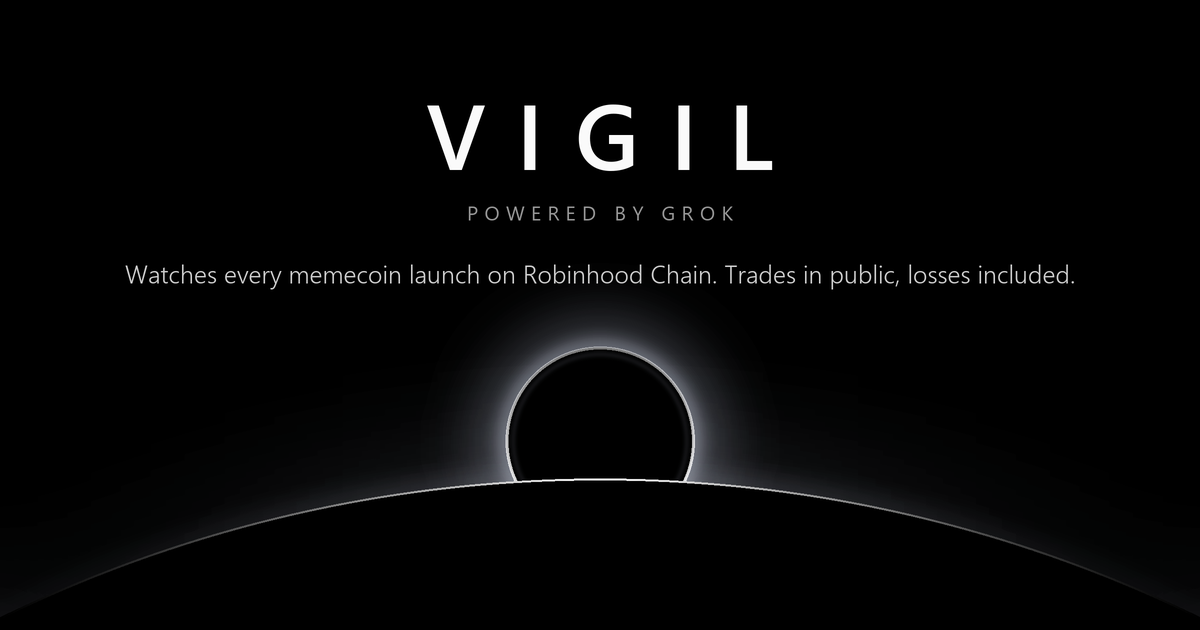
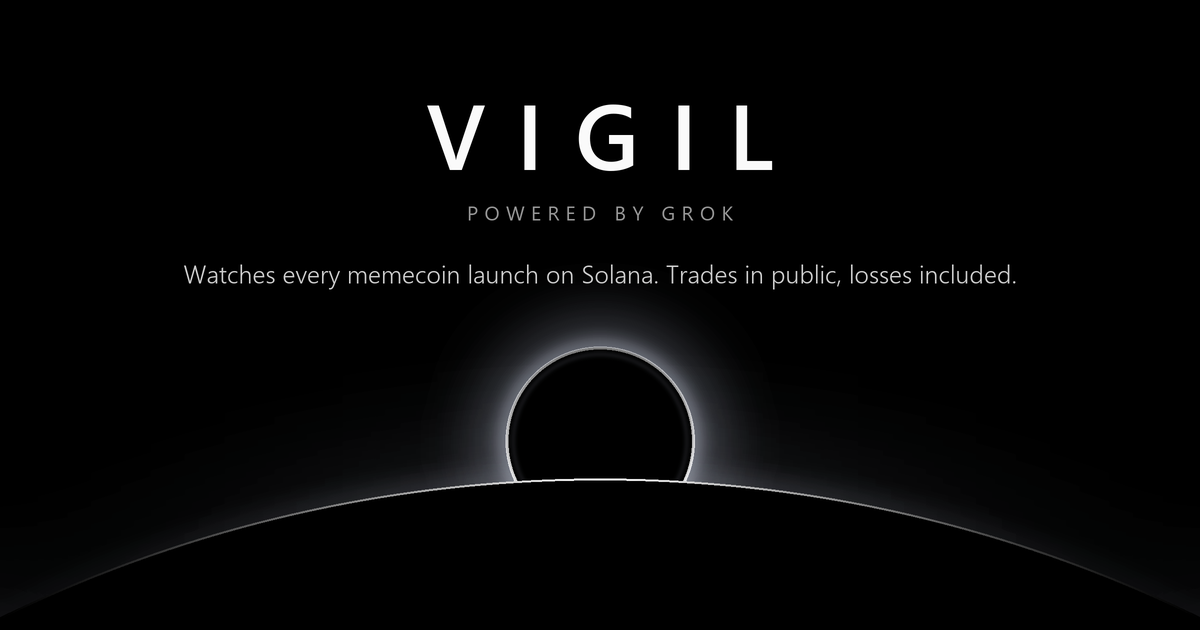
Share image: Solana, not Robinhood Chain

Changed region(s): [[0.0925, 0.4222, 0.8942, 0.4524]]

diff --git a/scripts/make_brand.py b/scripts/make_brand.py
@@ -128,7 +128,7 @@ def og(ss=2) -> Image.Image:
         d = ImageDraw.Draw(im)
         tracked(d, w / 2, h * .27, "VIGIL", font("seguisb.ttf", 92 * s), (250, 250, 250), .34)
         tracked(d, w / 2, h * .35, "POWERED BY GROK", font("segoeui.ttf", 20 * s), (150, 150, 150), .32)
-        tracked(d, w / 2, h * .45, "Watches every memecoin launch on Robinhood Chain. Trades in public, losses included.",
+        tracked(d, w / 2, h * .45, "Watches every memecoin launch on Solana. Trades in public, losses included.",
                 font("segoeuisl.ttf", 25 * s), (205, 205, 205), 0)
         return im
     return render((1200, 630), ss, draw)
